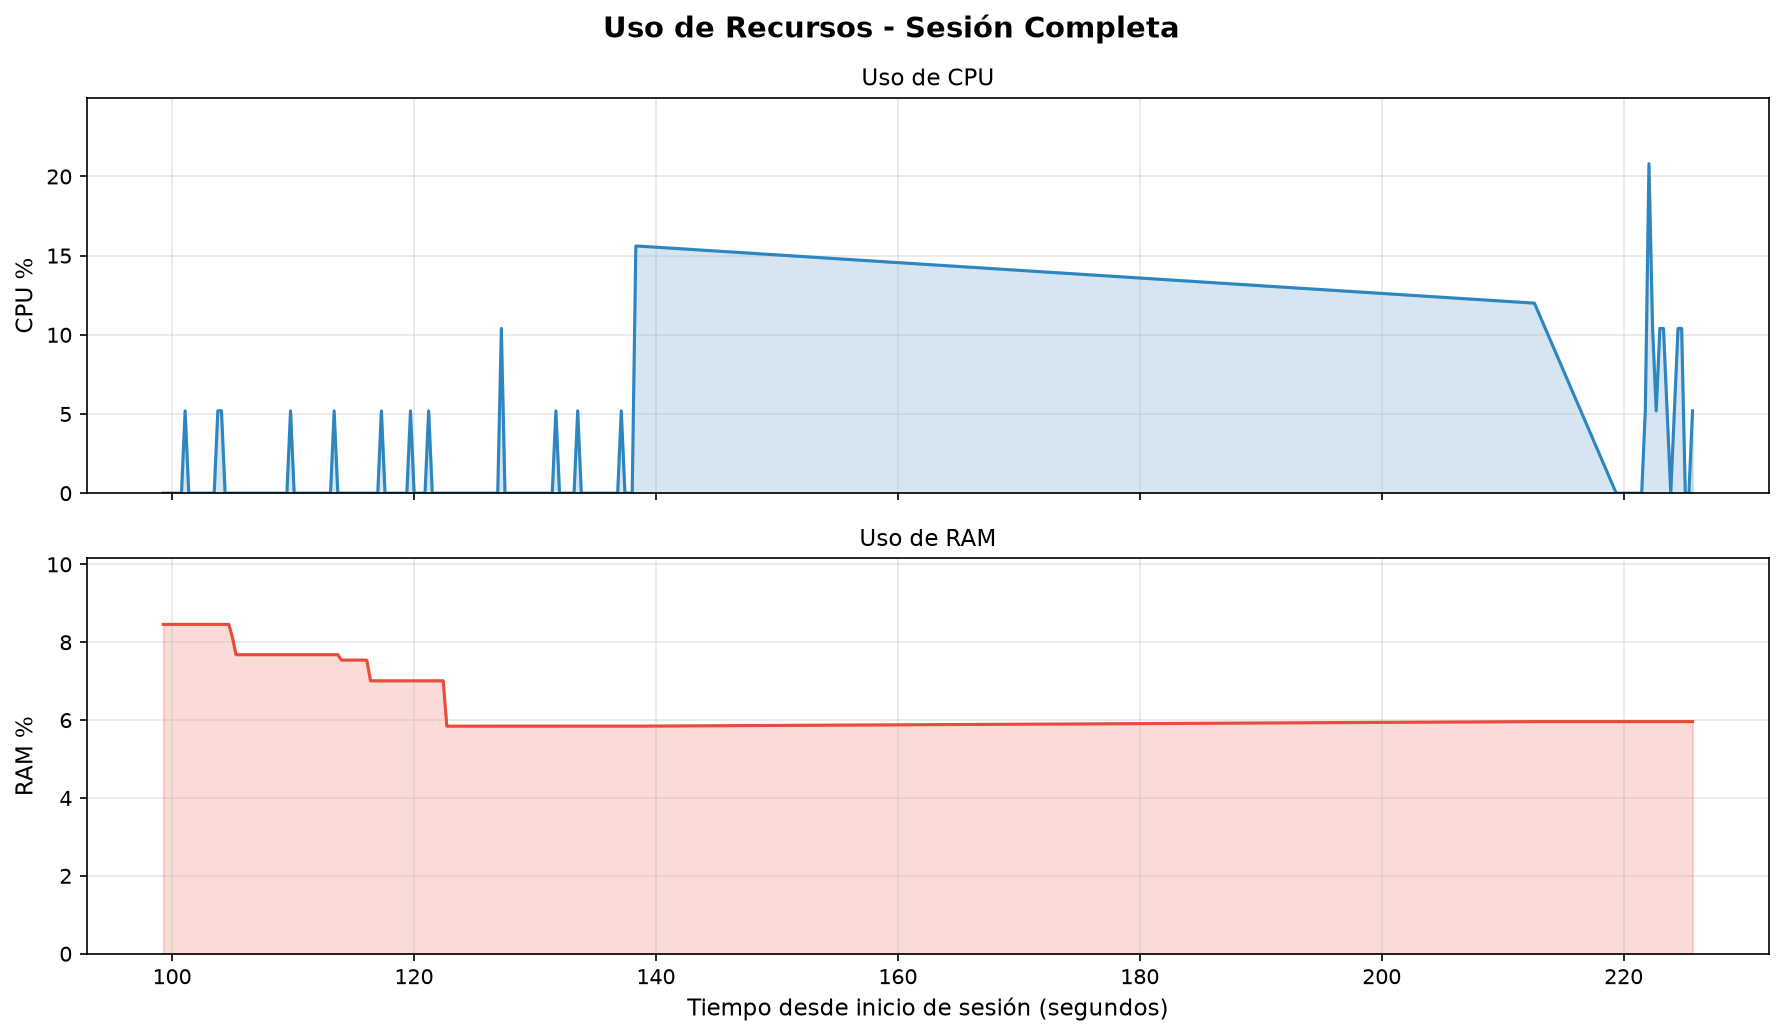
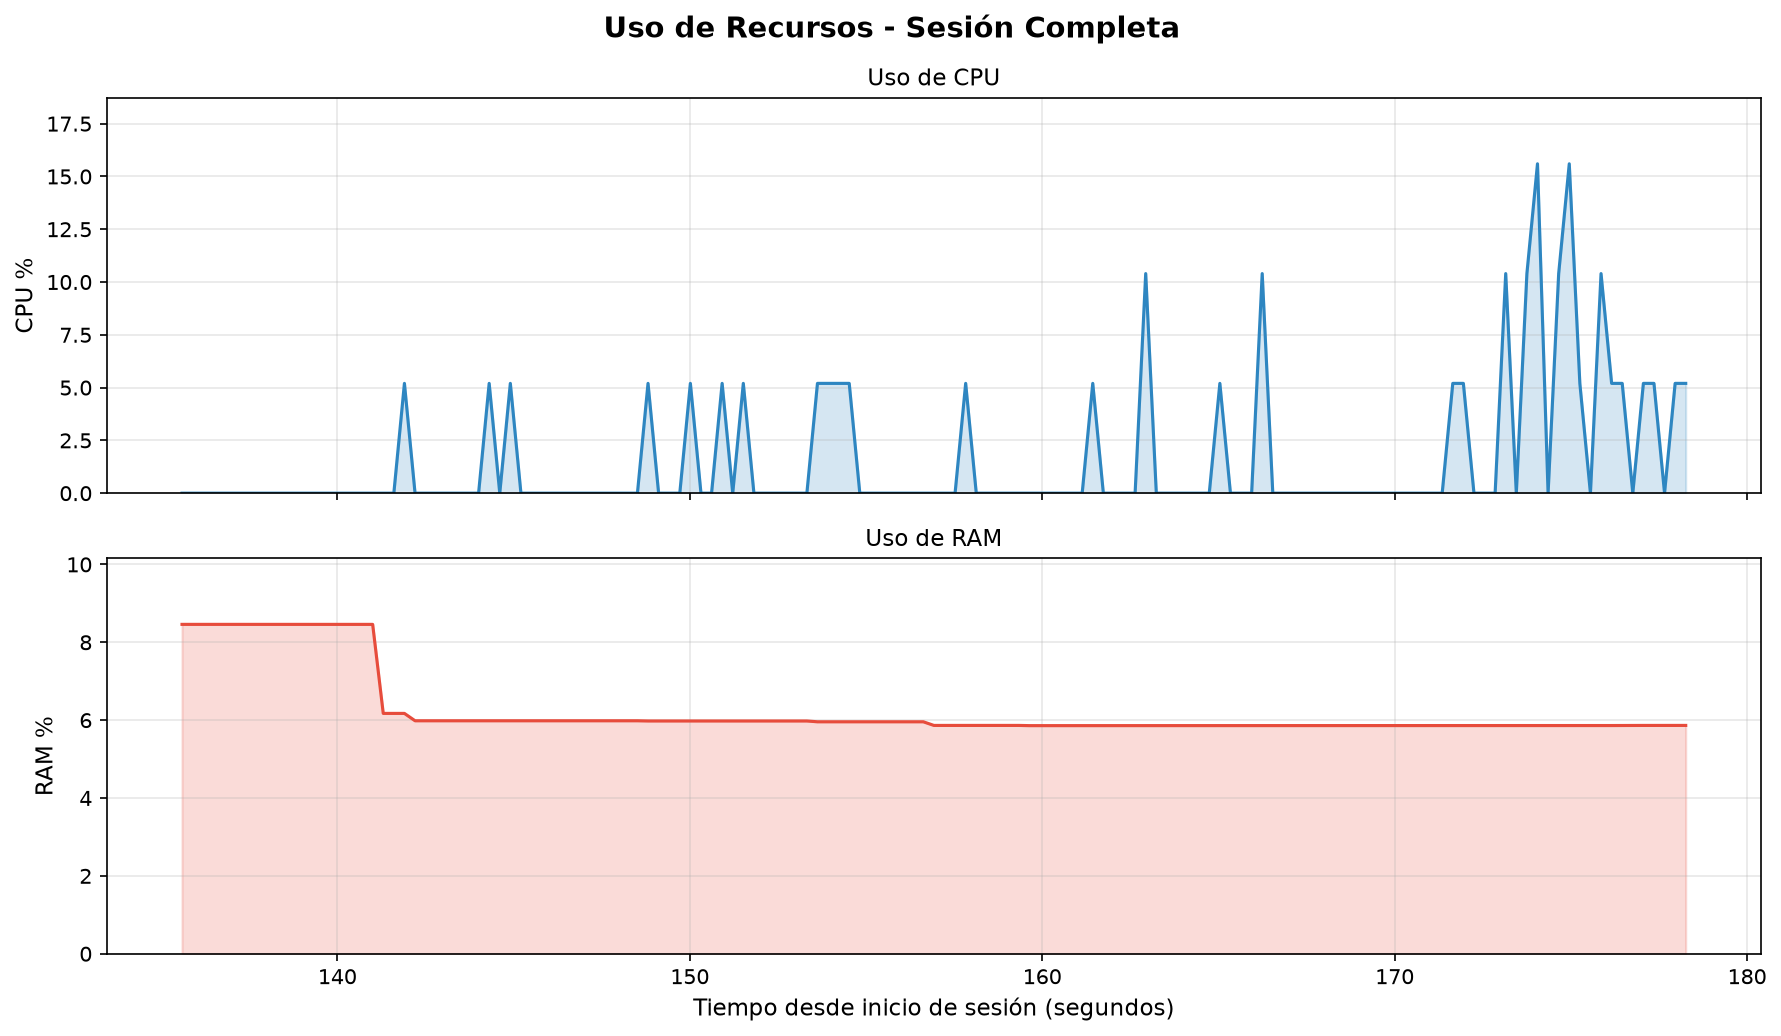
Feat: Funcion de busqueda y reindex a la conversacion

diff --git a/app.py b/app.py
@@ -517,11 +517,16 @@ with st.sidebar:
 if "active_tab" not in st.session_state:
     st.session_state.active_tab = "chat"
 
-tab_chat, tab_monitor, tab_config, tab_memory = st.tabs([
+# Inicializar pending_context si no existe
+if "pending_context" not in st.session_state:
+    st.session_state.pending_context = None
+
+tab_chat, tab_monitor, tab_config, tab_memory, tab_search = st.tabs([
     "💬 Chat Inteligente",
     "📊 Monitor de Recursos",
     "⚙ Configuración",
-    "🧠 Archivos de Memoria"
+    "🧠 Archivos de Memoria",
+    "🔍 Buscar en Historial"
 ])
 
 # -------------------- PESTAÑA 1: CHAT INTELIGENTE --------------------
@@ -766,6 +771,16 @@ with tab_chat:
         - **`/memory <término>`**: Busca en tus archivos de memoria guardados e inyecta el contenido completo
         - **`/rag <consulta>`**: Busca en la base de conocimiento documental (RAG) e inyecta el contexto relevante
         """)
+
+    # ==================== CONTEXTO PENDIENTE DE BÚSQUEDA ====================
+    if st.session_state.pending_context:
+        with st.container(border=True):
+            st.markdown("**📌 Contexto de Búsqueda Seleccionado**")
+            st.caption("Este texto se usará como punto de partida para tu próximo mensaje. Escríbelo abajo y envíalo.")
+            st.markdown(f"> {st.session_state.pending_context[:300]}{'...' if len(st.session_state.pending_context) > 300 else ''}")
+            if st.button("❌ Eliminar contexto", key="clear_pending_context", use_container_width=True, disabled=is_processing):
+                st.session_state.pending_context = None
+                st.rerun()
 
     # Chat input fijo al fondo (renderizado dentro de la pestaña Chat)
     prompt = st.chat_input(
@@ -1171,3 +1186,53 @@ with tab_memory:
                     st.rerun()
                 except Exception as e:
                     st.error(f"Error: {e}")
+
+# -------------------- PESTAÑA 5: BUSCAR EN HISTORIAL --------------------
+with tab_search:
+    st.session_state.active_tab = "search"
+    st.subheader("🔍 Buscar en Historial de Conversación")
+
+    if not st.session_state.messages:
+        st.info("ℹ No hay mensajes en la conversación actual para buscar.")
+    else:
+        st.caption("Búsqueda case-insensitive en todos los mensajes de la conversación actual")
+
+        search_query = st.text_input(
+            "Buscar mensajes...",
+            key="history_search_query",
+            placeholder="Escribe palabras clave para filtrar el historial",
+            disabled=is_processing
+        )
+
+        if search_query:
+            # Filtrado determinista case-insensitive
+            query_lower = search_query.lower()
+            matches = []
+            for idx, message in enumerate(st.session_state.messages):
+                if query_lower in message["content"].lower():
+                    matches.append((idx, message))
+
+            if matches:
+                st.markdown(f"**{len(matches)} resultado(s) encontrado(s):**")
+                for idx, message in matches:
+                    role_icon = "👤" if message["role"] == "user" else "🤖"
+                    role_label = "Usuario" if message["role"] == "user" else "Asistente"
+                    # Resumen: primeras 100 caracteres
+                    preview = message["content"][:100] + ("..." if len(message["content"]) > 100 else "")
+                    with st.expander(f"{role_icon} {role_label}: {preview}", expanded=False):
+                        st.markdown(f"**Rol:** {role_label}")
+                        st.markdown(f"**Índice en historial:** #{idx + 1}")
+                        st.markdown("**Contenido completo:**")
+                        st.markdown(message["content"])
+                        # Botón para guardar como contexto pendiente
+                        if st.button(
+                            "📌 Usar como contexto para próximo mensaje",
+                            key=f"use_context_{idx}",
+                            use_container_width=True,
+                            disabled=is_processing
+                        ):
+                            st.session_state.pending_context = f"[Contexto de búsqueda]\n{message['content']}"
+                            st.success("✅ Contexto guardado. Ve a la pestaña **Chat Inteligente** para usarlo.")
+                            st.rerun()
+            else:
+                st.info(f"No se encontraron coincidencias para: \"{search_query}\"")

diff --git a/MEMORY.md b/MEMORY.md
@@ -76,6 +76,24 @@
 - **Diferencia**: Complementa "Eliminar TODOS" que actúa sobre sesión seleccionada; este actúa sobre sesión ACTUAL
 - **Verificación**: `python -m py_compile app.py` ✅
 
+## ✅ Búsqueda determinista en historial de conversación (2026-10-14 - tarde)
+- **Ubicación**: Pestaña Chat, antes del renderizado del historial (líneas 531-577)
+- **Campo**: `st.text_input` con key="chat_search_query", placeholder descriptivo, `disabled=is_processing`
+- **Filtrado**: Case-insensitive estricto sobre `st.session_state.messages`
+- **Resultados**: Expandibles estilo memoria con icono rol, índice, preview 100 chars + contenido completo
+- **Acción**: Botón "📌 Usar este mensaje como contexto" inyecta mensaje como user con etiqueta "[Contexto recuperado de búsqueda]", setea `processing=True`, rerun
+- **Seguridad**: Botones con `disabled=is_processing`
+- **Verificación**: `python -m py_compile app.py` ✅
+
+## ✅ Refactor Búsqueda: Pestaña dedicada + Contexto pendiente (2026-10-14 - tarde)
+- **Nueva pestaña**: "🔍 Buscar en Historial" (tab_search, 5ª pestaña)
+- **Chat tab**: Eliminada búsqueda inline; añadido bloque "📌 Contexto de Búsqueda Seleccionado" arriba del chat_input
+- **pending_context**: Nueva variable session_state para guardar contexto seleccionado sin enviarlo automáticamente
+- **Flujo**: Buscar en pestaña Search → click "Usar como contexto" → guarda en `pending_context` → notifica → usuario va a Chat → ve contexto destacado → escribe prompt → envía (contexto + prompt van juntos)
+- **Botón eliminar**: ❌ "Eliminar contexto" limpia `pending_context`
+- **Seguridad**: Todos los controles con `disabled=is_processing`
+- **Verificación**: `python -m py_compile app.py` ✅
+
 ## Decisiones importantes
 - **Vector DB**: ChromaDB (persistente en `data/chroma/`)
 - **Embeddings**: sentence-transformers (all-MiniLM-L6-v2)
